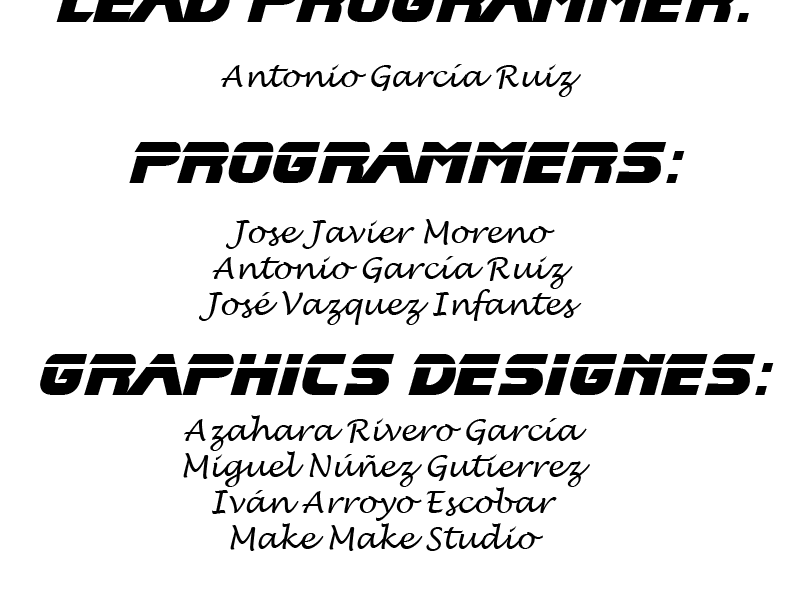
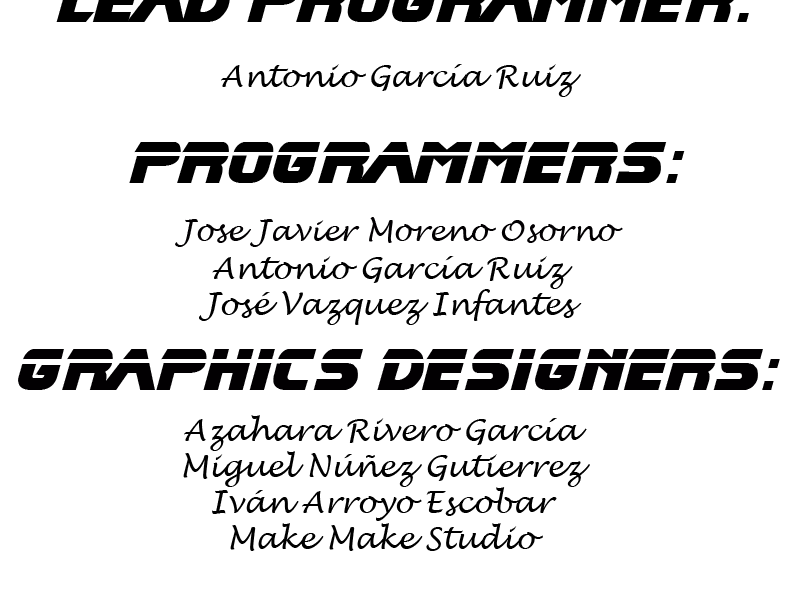
Añadidos musicos corregido error en Graphics designers

Changed region(s): [[0.0, 0.57, 0.9688, 0.66], [0.2188, 0.36, 0.7812, 0.42]]

diff --git a/src/Screens/CreditsScreen.java b/src/Screens/CreditsScreen.java
@@ -29,6 +29,7 @@ public class CreditsScreen implements IScreen {
     Actor fondo; // el fondo del menu
     Actor creditos1;
     Actor creditos2;
+    Actor creditos3;
     List<Boton> botones; // lista de botones del game over
 
     public CreditsScreen()
@@ -42,6 +43,7 @@ public class CreditsScreen implements IScreen {
             fondo = new Fondo("imagenes/FondoCreditos.png",Vector2D.zero);
             creditos1 = new Fondo("imagenes/Creditos1.png",new Vector2D(0, 600));
             creditos2 = new Fondo("imagenes/Creditos2.png",new Vector2D(0, 1200));
+            creditos3 = new Fondo("imagenes/Creditos3.png",new Vector2D(0, 1780));
             cargarBotones();
         } catch (Exception ex) {
             Logger.getLogger(CreditsScreen.class.getName()).log(Level.SEVERE, null, ex);
@@ -65,11 +67,14 @@ public class CreditsScreen implements IScreen {
 
     public void update() {
         creditos1.posicion.y=creditos1.posicion.y-2;
-        if(creditos1.posicion.y<=-1200)
+        if(creditos1.posicion.y<=-1300)
             creditos1.posicion.y=600;
         creditos2.posicion.y=creditos2.posicion.y-2;
-        if(creditos2.posicion.y<=-600)
+        if(creditos2.posicion.y<=-700)
             creditos2.posicion.y=1200;
+        creditos3.posicion.y=creditos3.posicion.y-2;
+        if(creditos3.posicion.y<=-150)
+            creditos3.posicion.y=1730;
         for(Boton b:botones){
             b.update();
         }
@@ -79,6 +84,7 @@ public class CreditsScreen implements IScreen {
         fondo.draw(g);
         creditos1.draw(g);
         creditos2.draw(g);
+        creditos3.draw(g);
         for(Boton b:botones){
             b.draw(g);
         }
